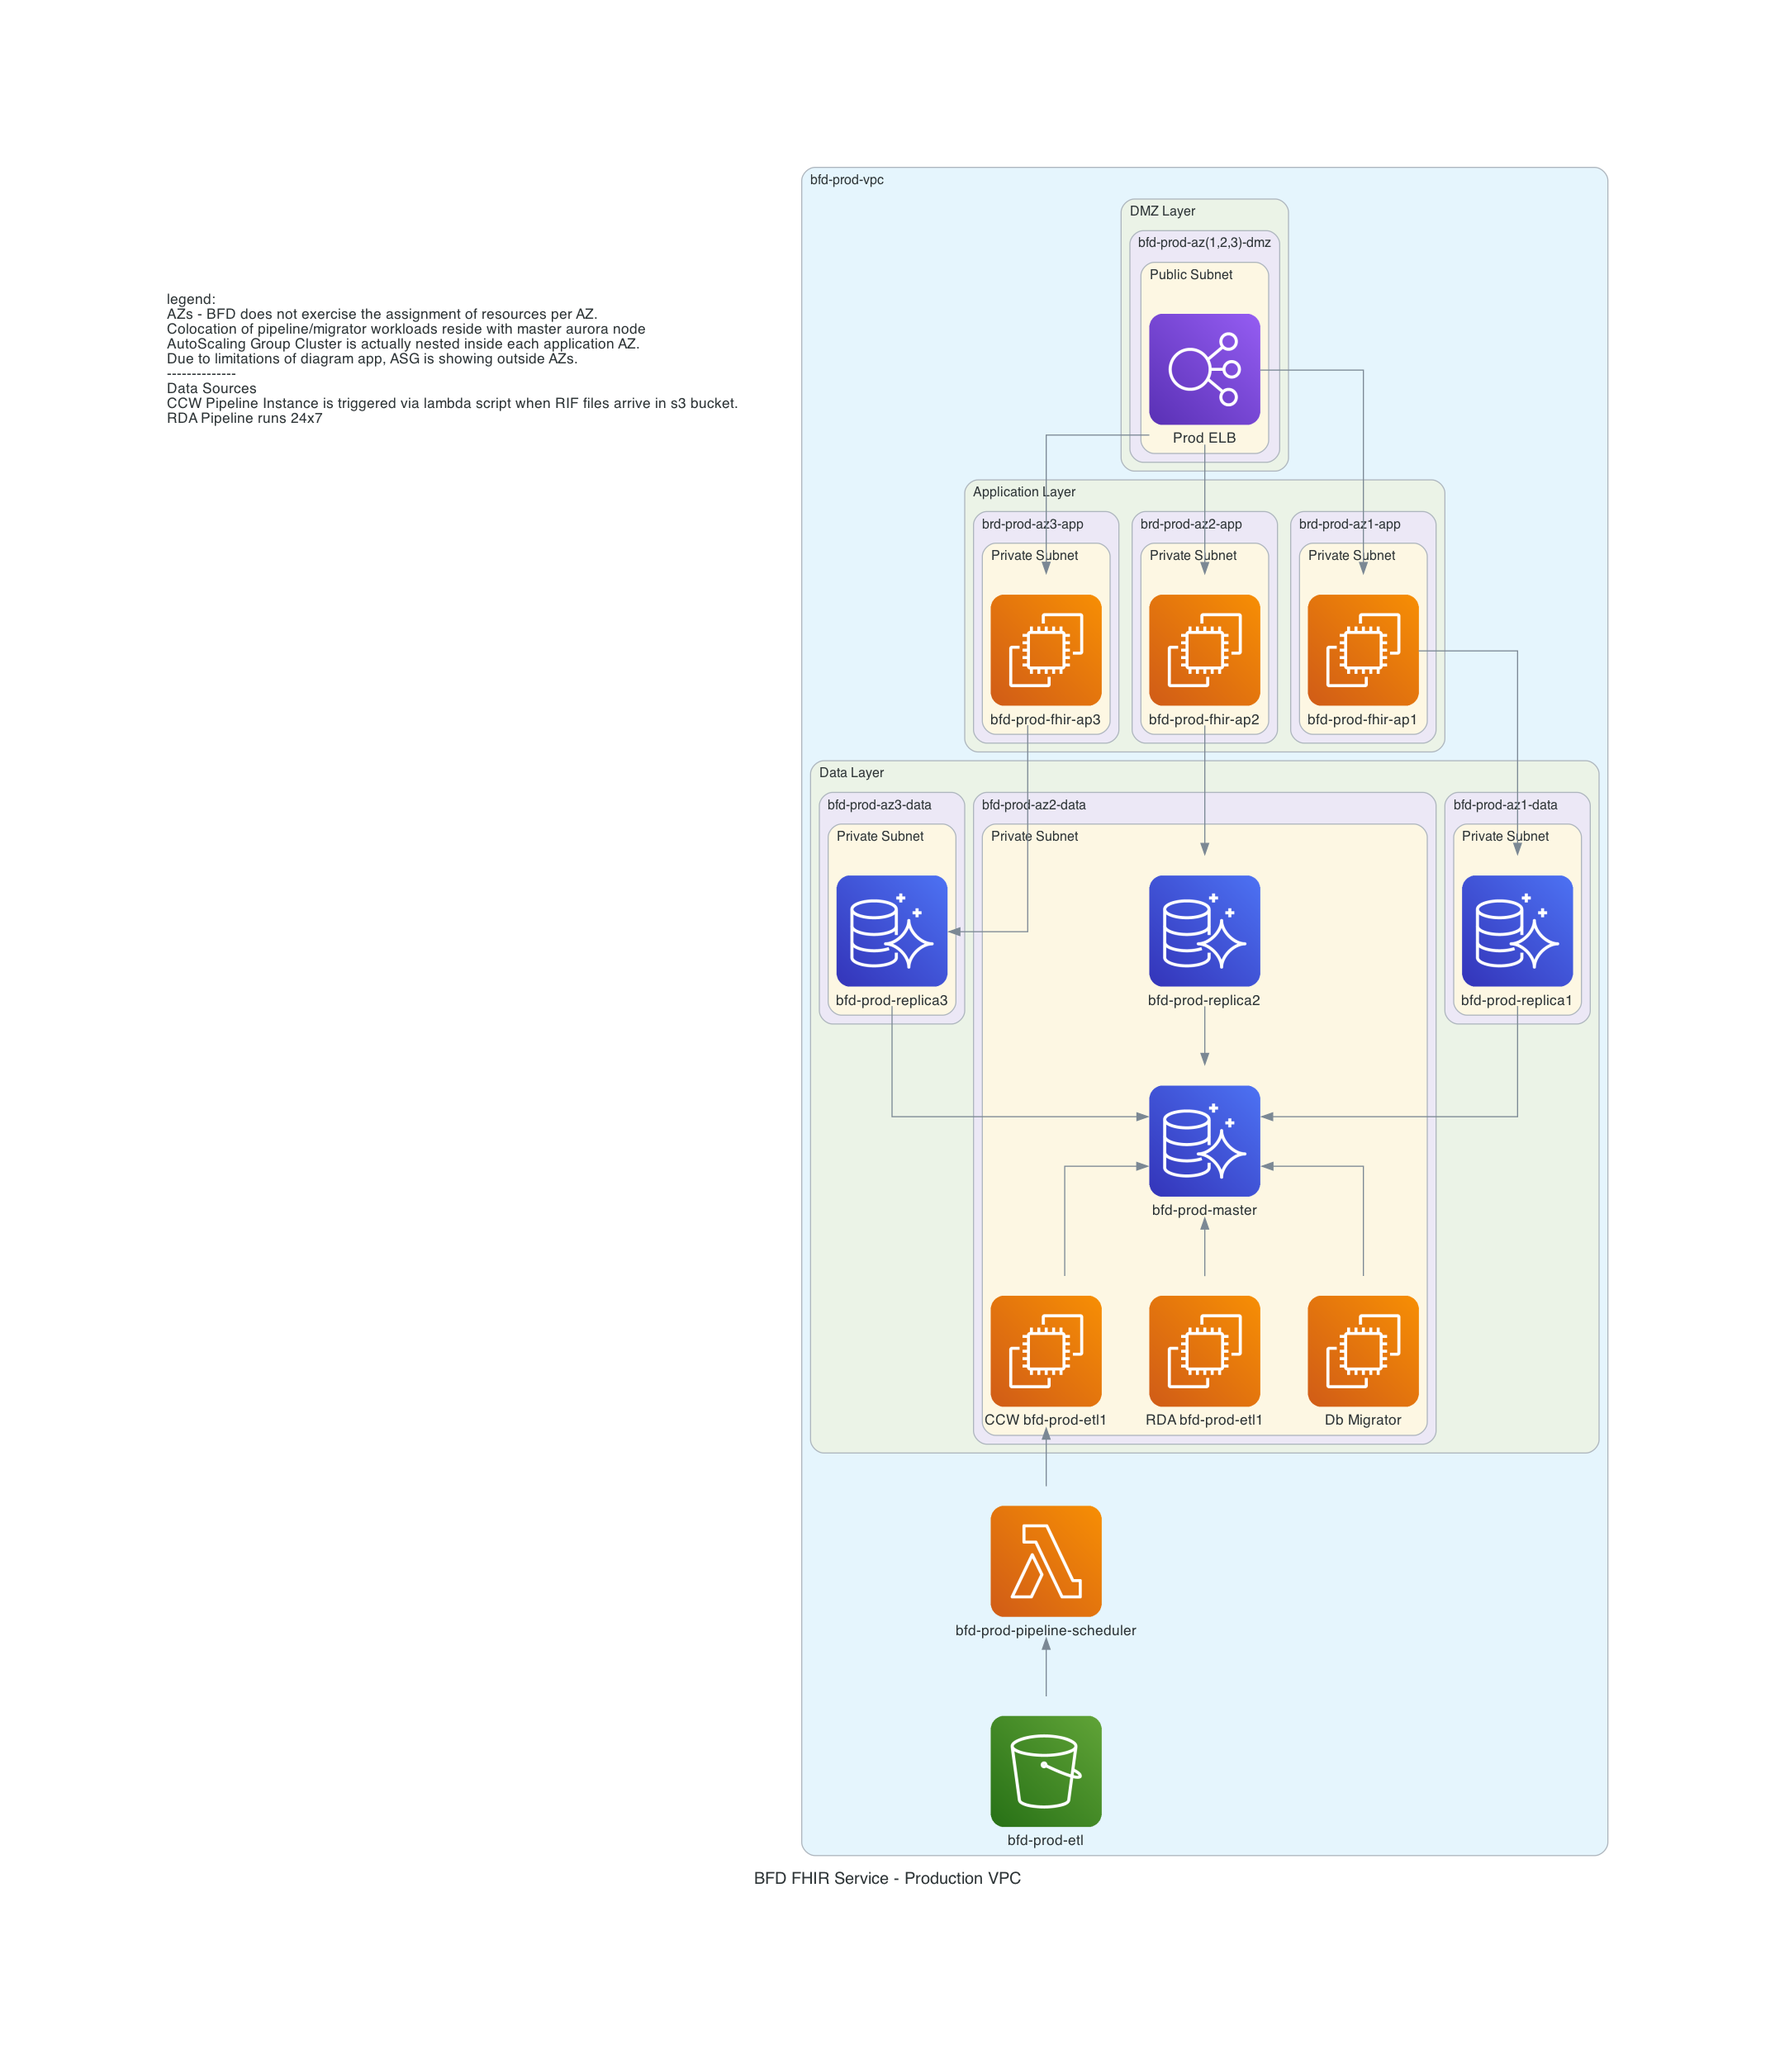
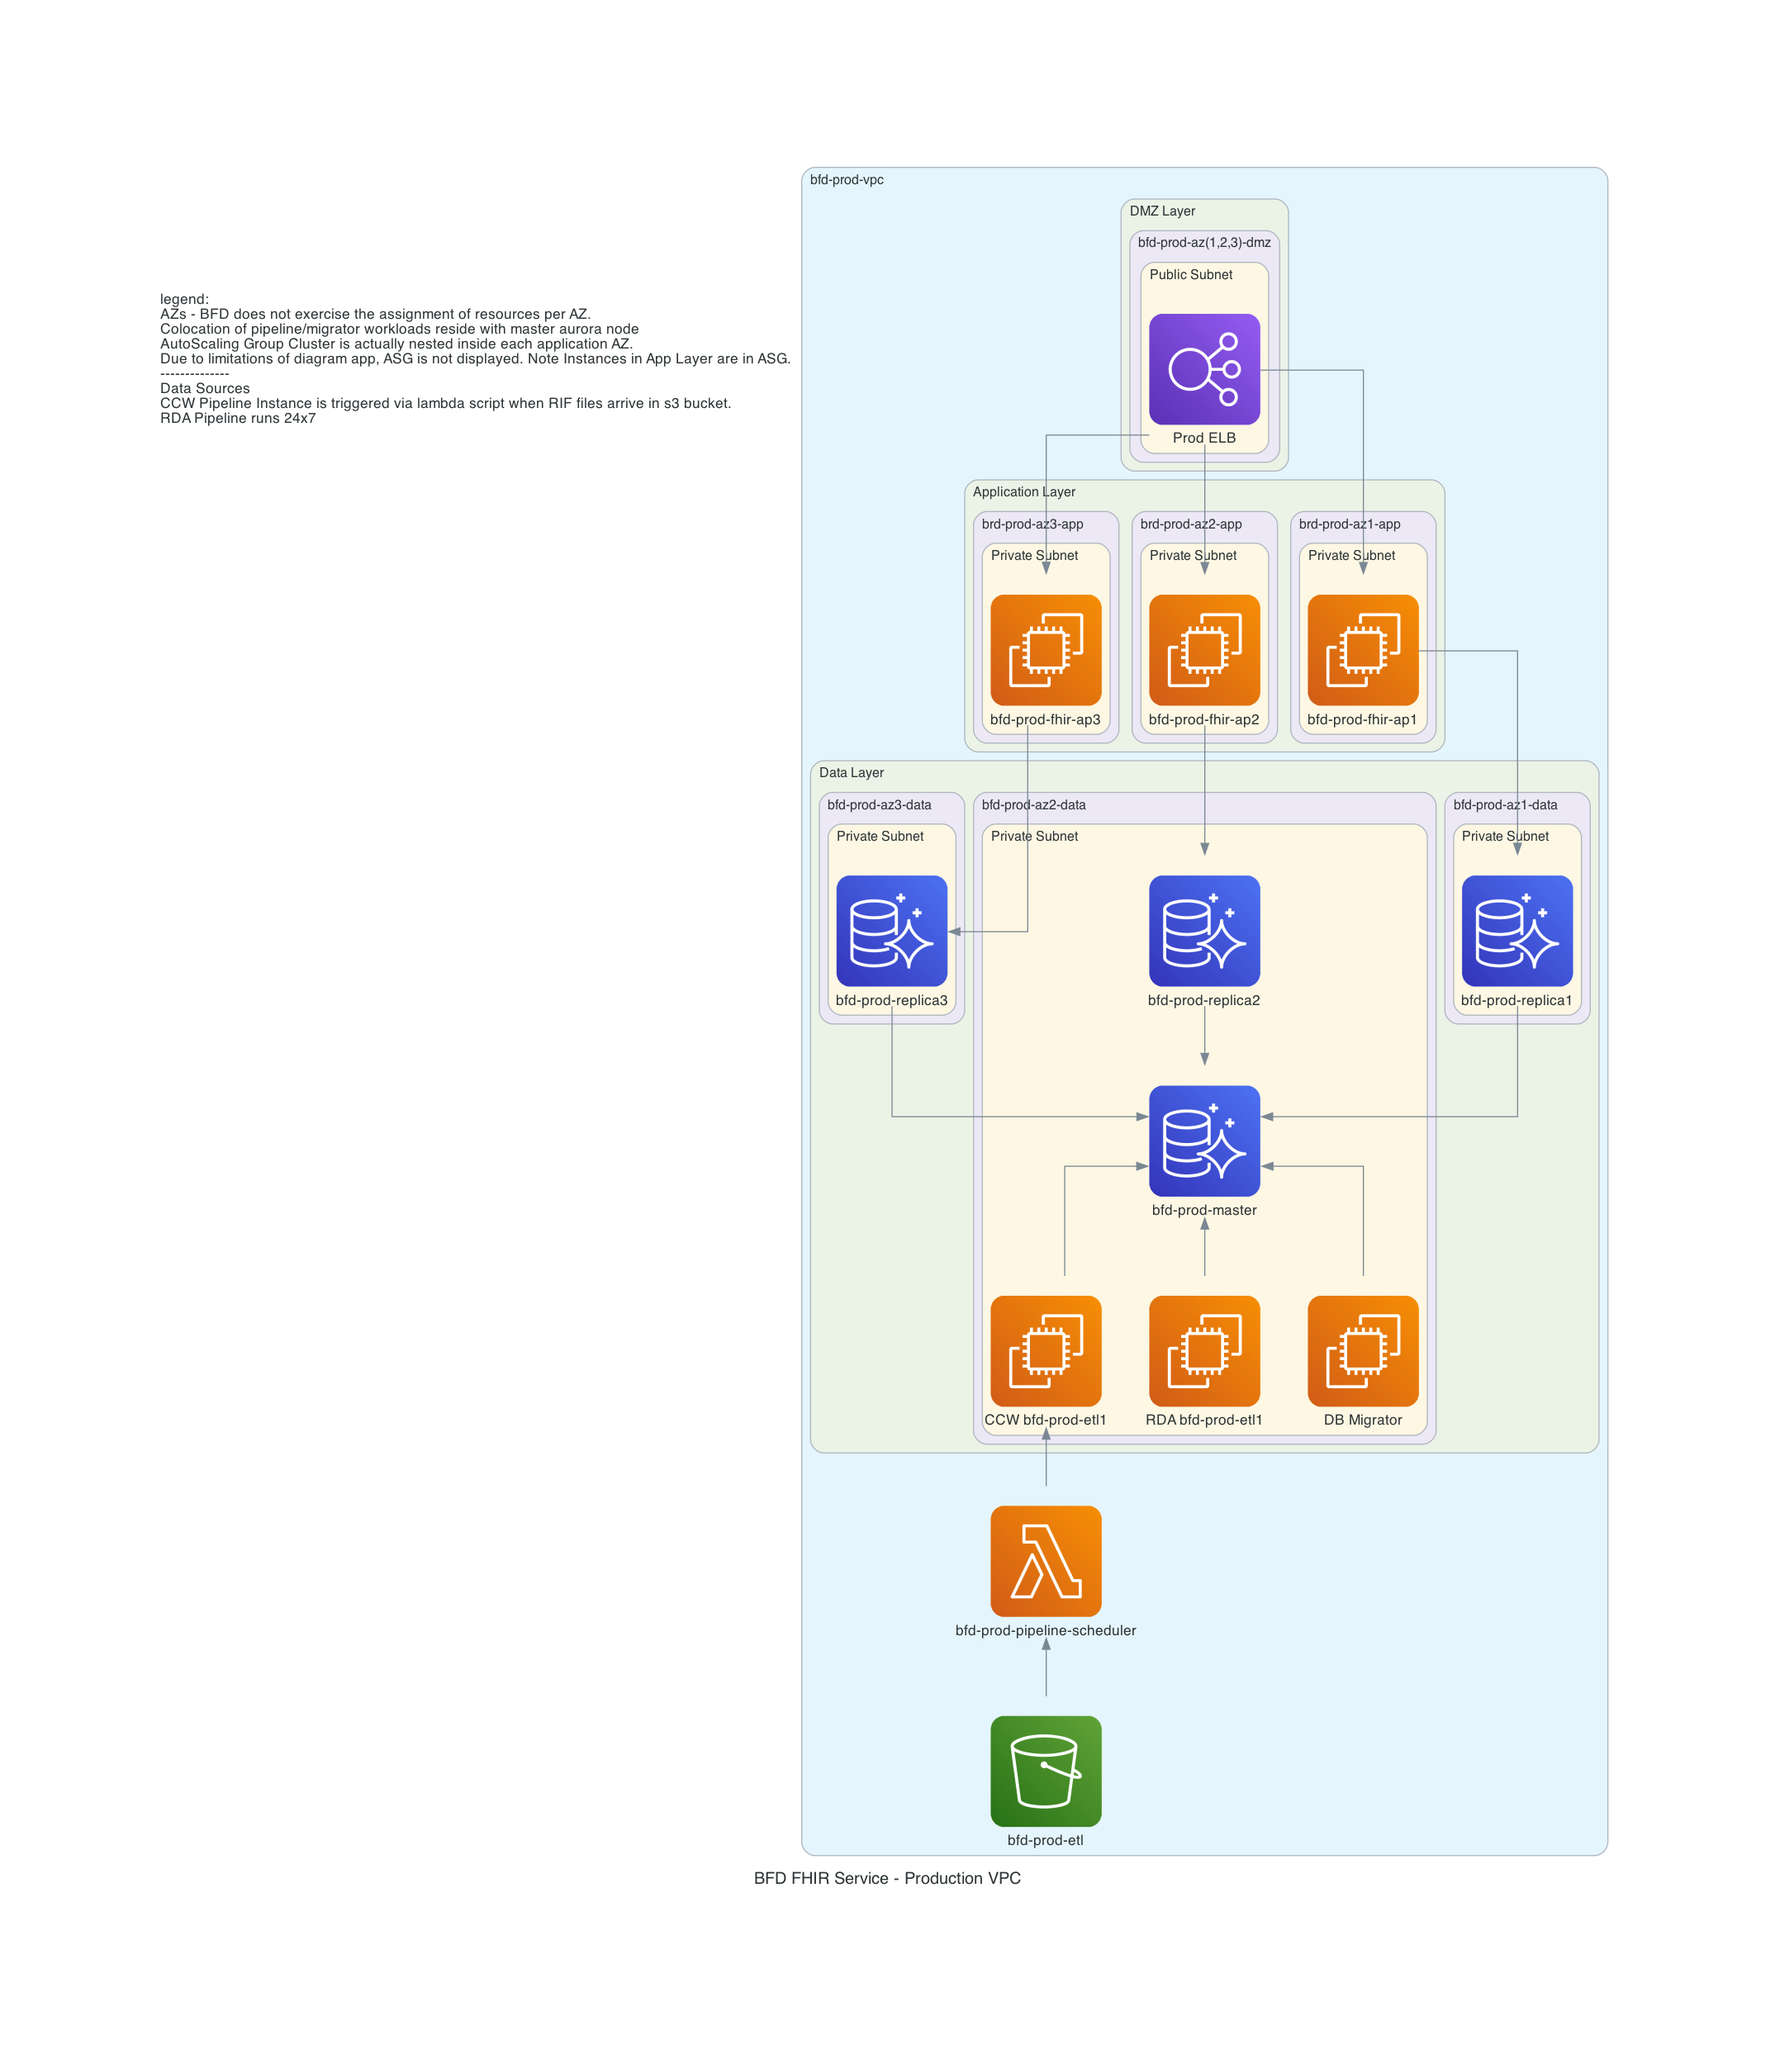
Update Prod VPC diagram legend

Changed region(s): [[0.0935, 0.1241, 0.3741, 0.2173], [0.3741, 0.1862, 0.4053, 0.2173]]

diff --git a/docs/diagrams/infrastructure/bfd_prod_vpc.py b/docs/diagrams/infrastructure/bfd_prod_vpc.py
@@ -13,7 +13,7 @@ legend_text = (
 "AZs - BFD does not exercise the assignment of resources per AZ. \l"
 "Colocation of pipeline/migrator workloads reside with master aurora node \l"
 "AutoScaling Group Cluster is actually nested inside each application AZ.\l"
-"Due to limitations of diagram app, ASG is showing outside AZs.\l" #FIX_ME
+"Due to limitations of diagram app, ASG is not displayed. Note Instances in App Layer are in ASG.\l" #FIX_ME
 "--------------\l"
 "Data Sources\l"
 "CCW Pipeline Instance is triggered via lambda script when RIF files arrive in s3 bucket.\l"
@@ -62,7 +62,7 @@ with Diagram(
                     db_writer = Aurora("bfd-prod-master")
                     ccw = EC2("CCW bfd-prod-etl1")
                     rda = EC2("RDA bfd-prod-etl1")
-                    migrator = EC2("Db Migrator")
+                    migrator = EC2("DB Migrator")
             with Cluster("bfd-prod-az3-data"):
                 with Cluster("Private Subnet"):
                     db3 = Aurora("bfd-prod-replica3")
